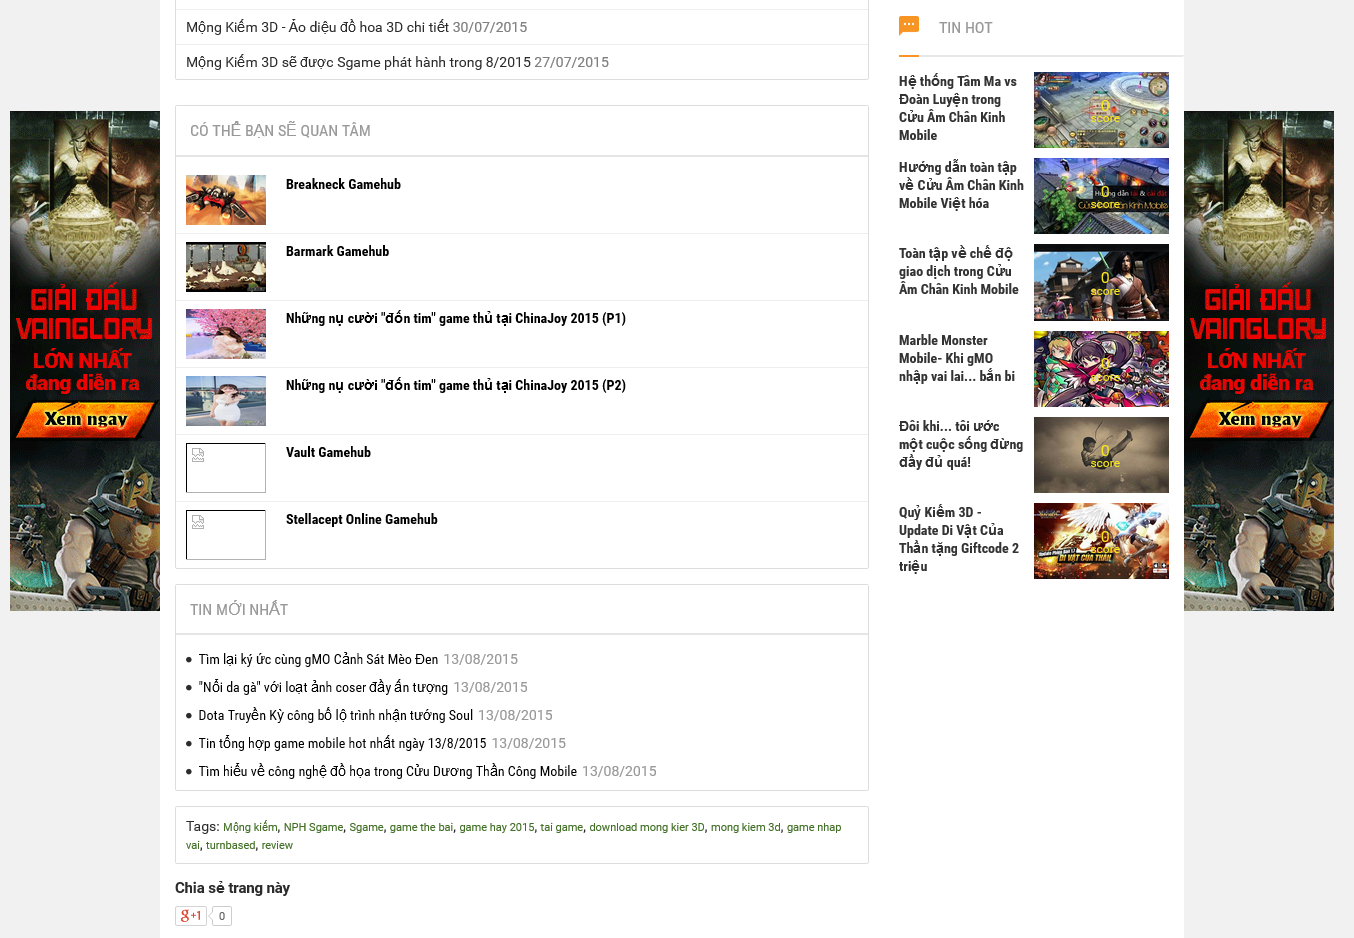
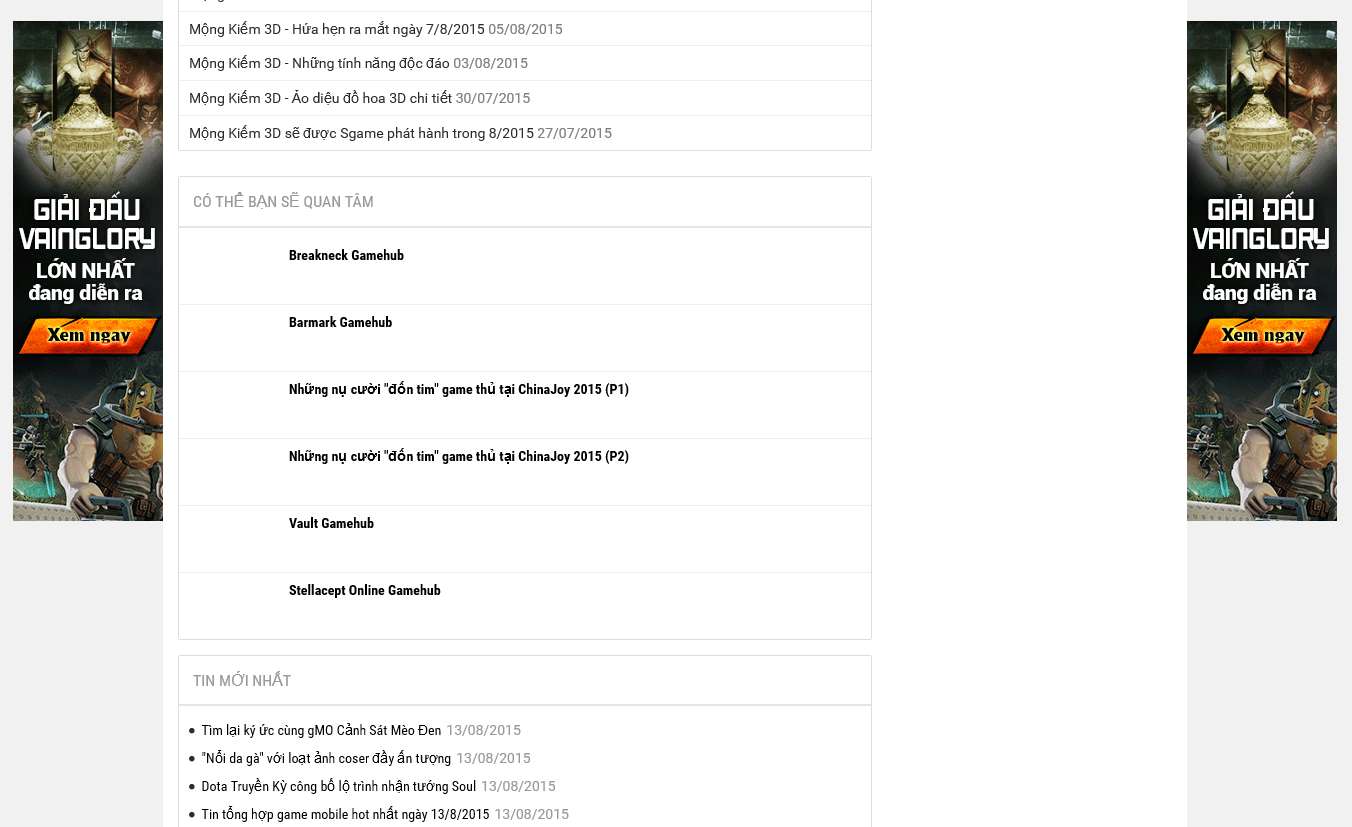
Update

diff --git a/customer/gamehub/gamehub_snippet.html b/customer/gamehub/gamehub_snippet.html
@@ -11,22 +11,15 @@
         }
     })();
 </script>
-<div data-rs>
+<div data-rs class="sectionMain similarThreadsThreadView ThreadView">
+    <h4 class="heading">Có thể bạn sẽ quan tâm</h4>
     <script type="text/template">
-        <div class="sectionMain similarThreadsThreadView ThreadView">
-            <h4 class="heading">Có thể bạn sẽ quan tâm</h4>
-            <ul class="dataTable" data-rs-list>
-                <li class="dataRow">
-                    <div class="listThreadView">
-                        <div class="picThreadView">
-                            <a sl-processed="1" href="{{url}}" title="{{title}}">
-                                <img src="{{image}}" height="100" width="160" />
-                            </a>
-                        </div>
-                        <div class="titleThreadView"><a sl-processed="1" href="{{url}}" title="{{title}}">{{title}}</a></div>
-                    </div>
-                </li>
-            </ul>
-        </div>
+        <ul class="dataTable" data-rs-list>
+            <li class="dataRow">
+                <div class="listThreadView">
+                    <div class="titleThreadView"><a sl-processed="1" href="{{url}}" title="{{title}}">{{title}}</a></div>
+                </div>
+            </li>
+        </ul>
     </script>
 </div>
